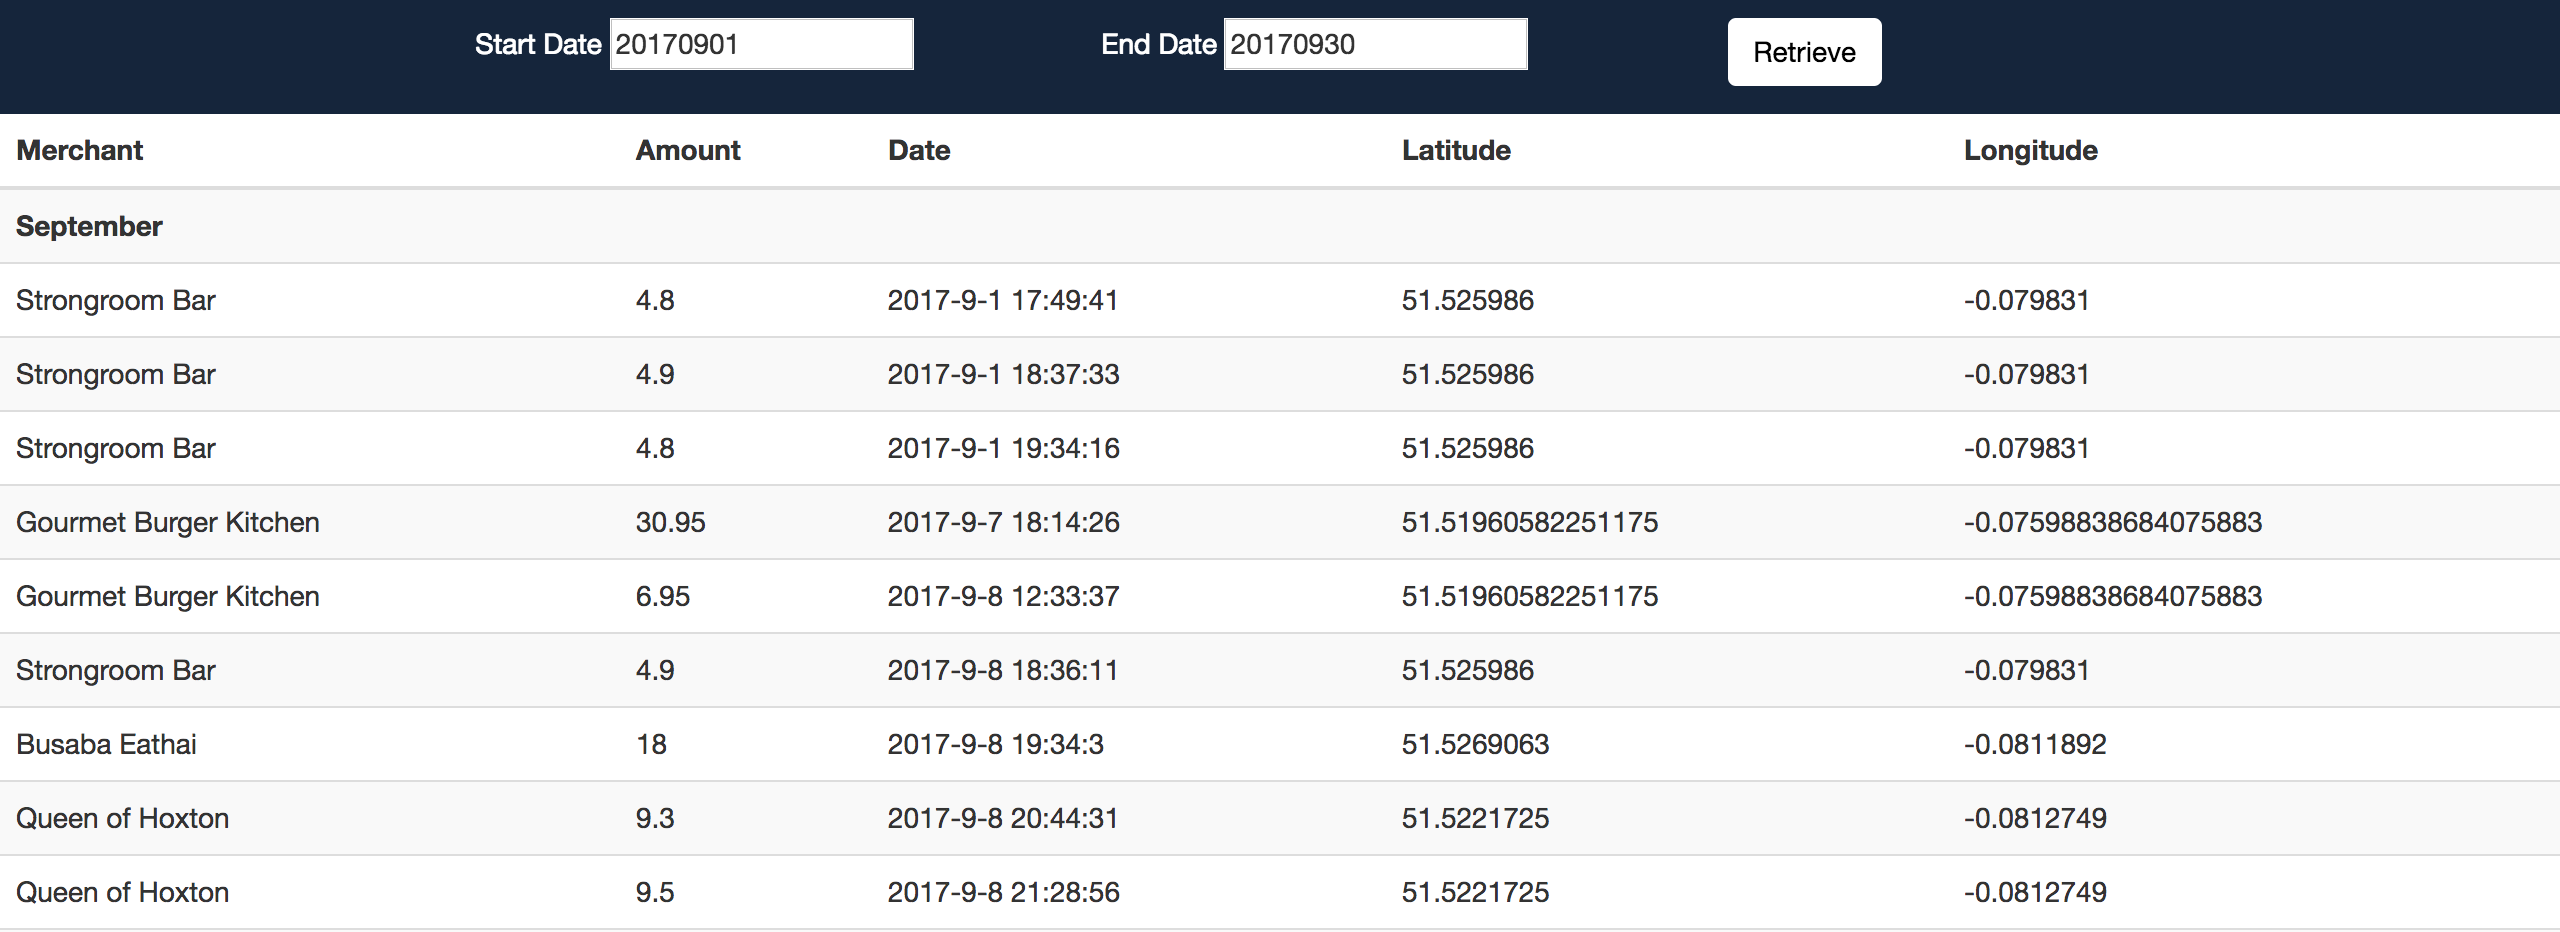
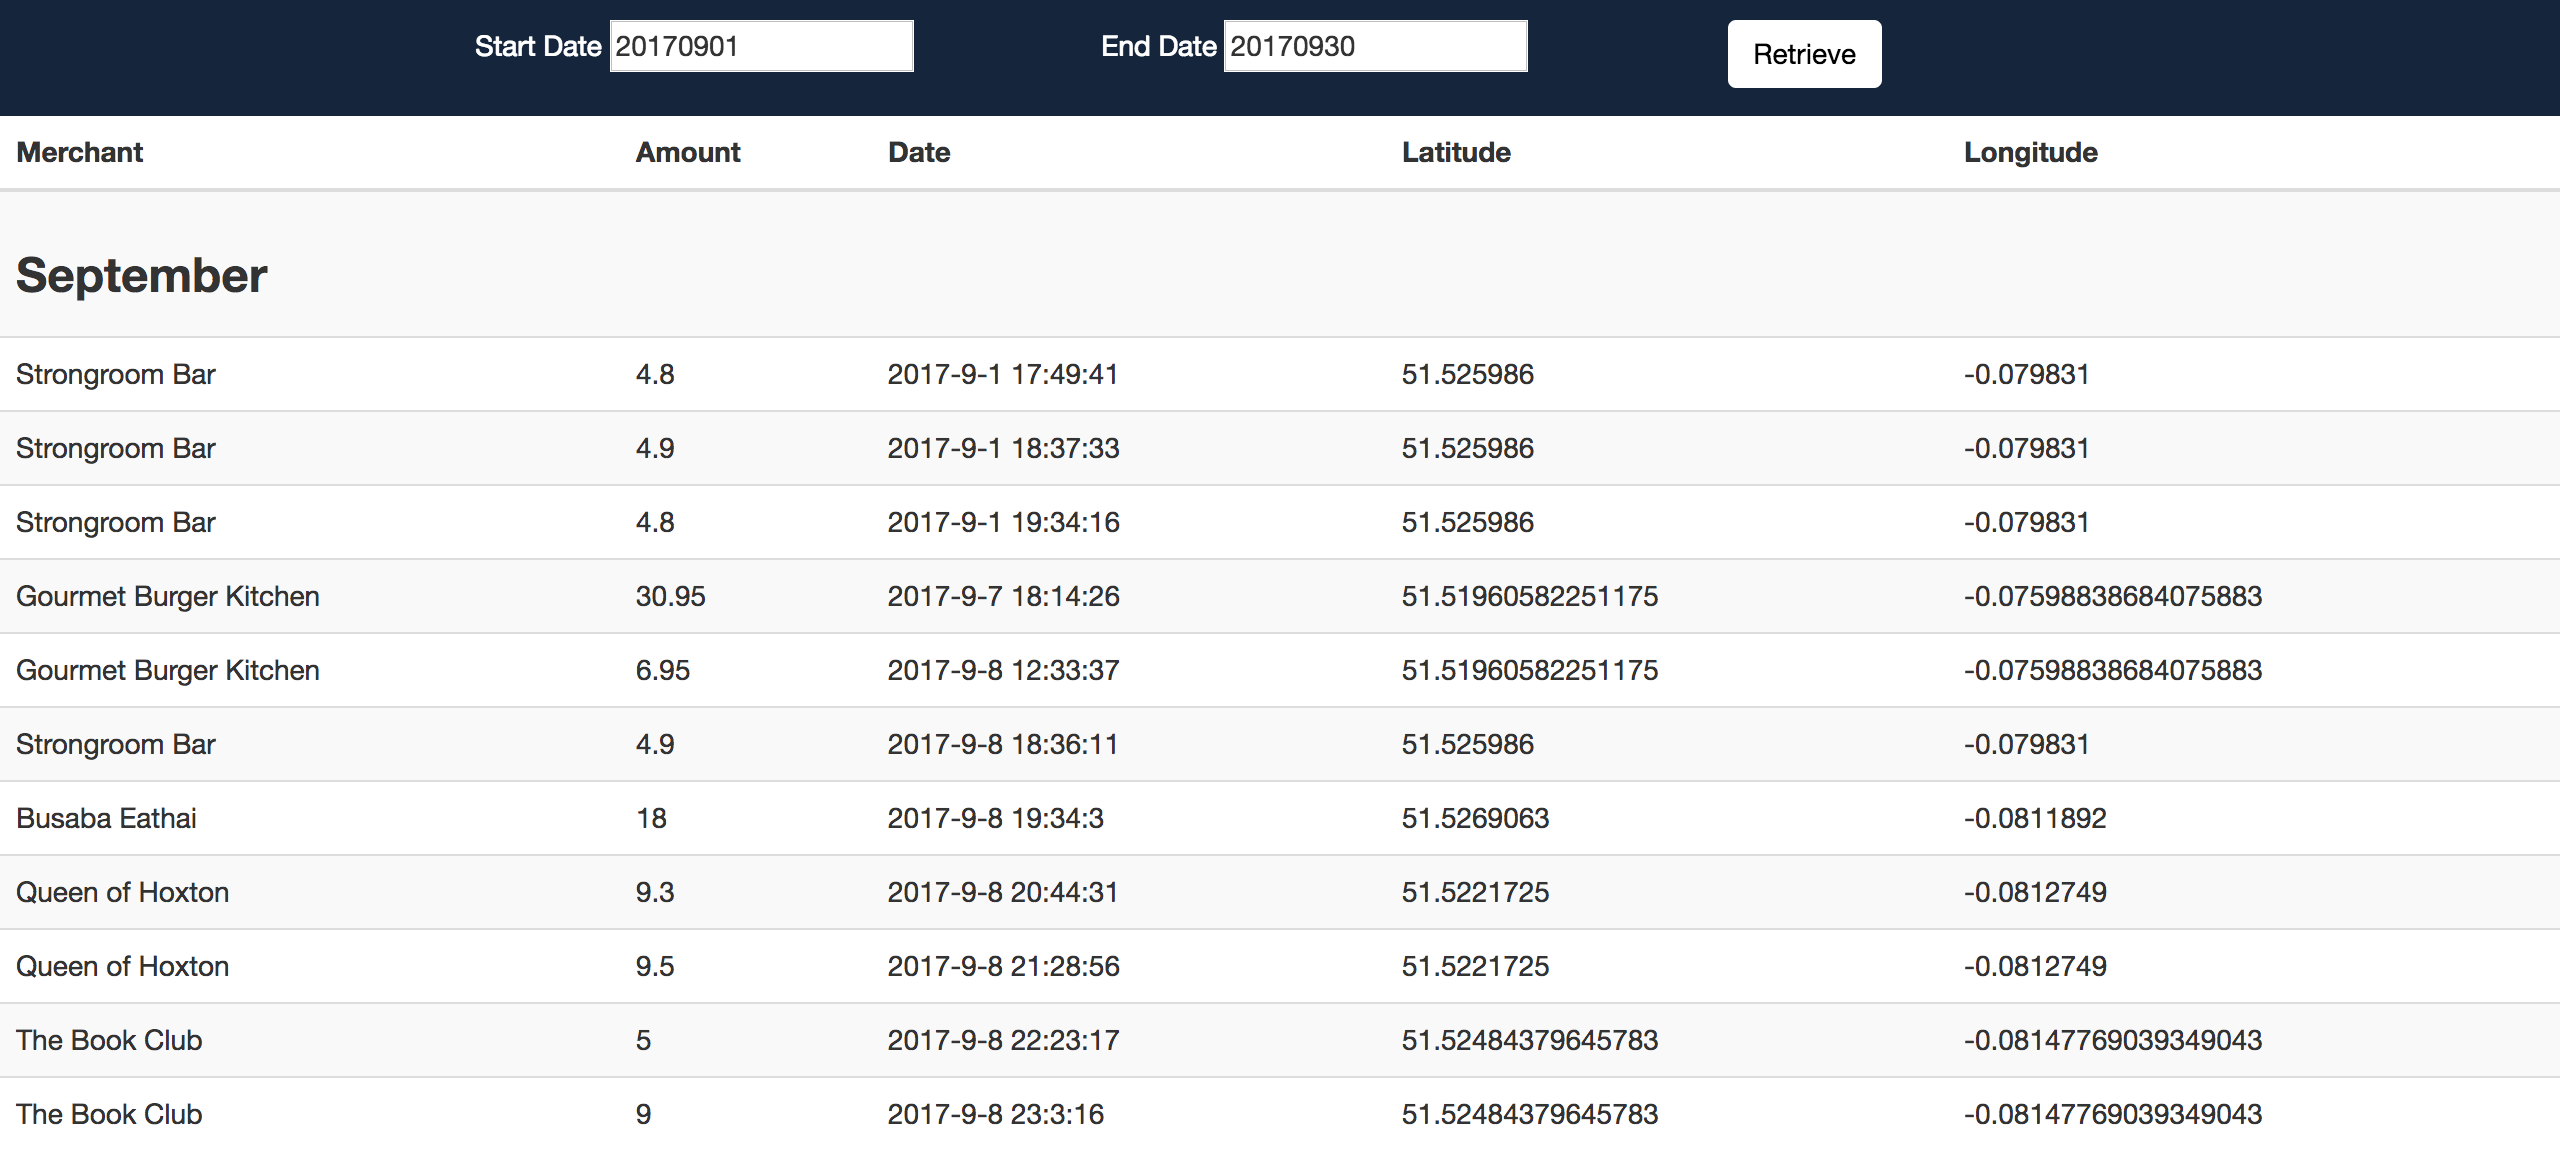
Gave the month string a header

Changed region(s): [[0.0, 0.0, 1.0, 0.6534], [0.0, 0.6845, 1.0, 1.0], [0.25, 0.6845, 0.2812, 0.9646]]

diff --git a/Monzo.Locations/Monzo.Locations.Web/Scripts/maps.js b/Monzo.Locations/Monzo.Locations.Web/Scripts/maps.js
@@ -137,7 +137,7 @@ $(function () {
                 allrows += 
                 `
                     <tr>
-                        <td><b>` + currentMonth +`</b></td>
+                        <td><h3><b>` + currentMonth +`</b></h3></td>
                         <td></td>
                         <td></td>
                         <td></td>
